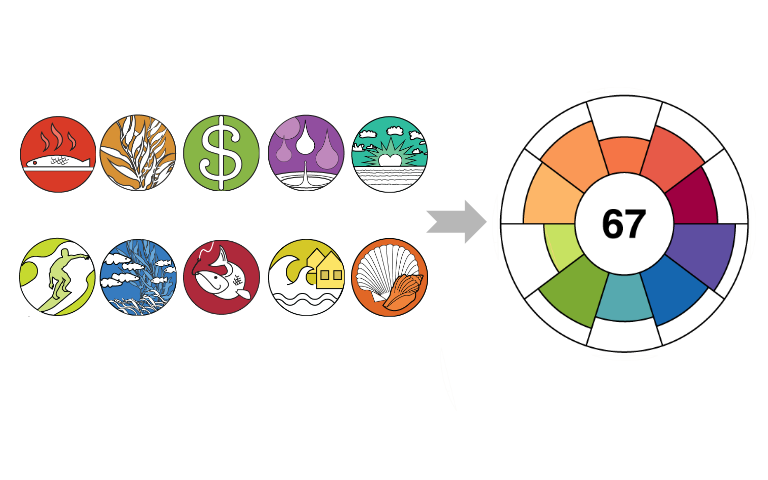
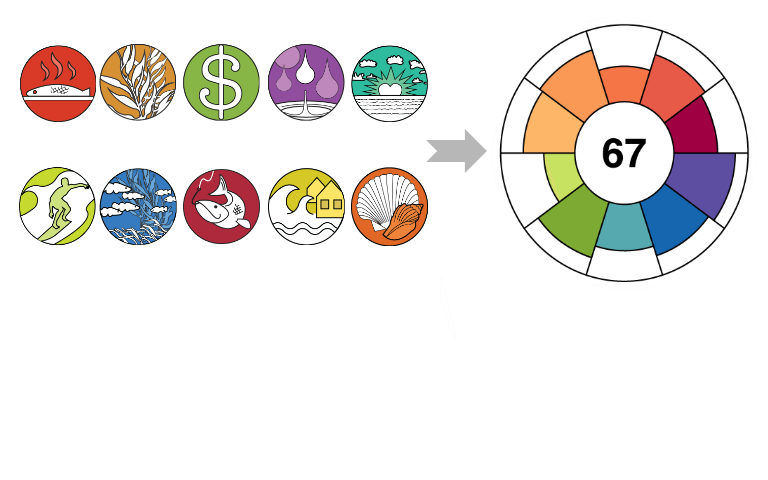
updated intro slides and presenter notes

diff --git a/tutorials/ohi_shiny/index.html b/tutorials/ohi_shiny/index.html
@@ -96,21 +96,38 @@
 <slide class=''><hgroup><h2>Ocean Health Index</h2></hgroup><article  id="ocean-health-index">
 
 <div class="centered">
-<img src='img/ohi-goals-flowerplot.png' title=''/></div>
+<img src='img/ohi-goals.png' title=''/></div>
 
 <aside class='note'><section><blockquote>
-<p>TODO: animate this first slide to show a non-shiny global map here setup: prelaunch in new tab: <a href='http://ohi-science.nceas.ucsb.edu/bhi' title=''>http://ohi-science.nceas.ucsb.edu/bhi</a>; add: <code>?presentme=true</code> to URL, click <code>p</code> for notes</p>
+<p>setup: prelaunch in new tab: <a href='http://ohi-science.nceas.ucsb.edu/bhi' title=''>http://ohi-science.nceas.ucsb.edu/bhi</a>; add: <code>?presentme=true</code> to URL, click <code>p</code> for notes</p>
 </blockquote>
 
 <ul>
 <li>The Ocean Health Index measures ocean health based on the best publicly available data and scientific methods at <strong>local, regional, national and global</strong> scales.</li>
-<li>Governments at many levels are mandating policy to increase ocean health, but there wasn&#39;t a way to do this.</li>
+<li>Governments at many levels are <strong>mandating policy</strong> to increase ocean health, but there wasn&#39;t a way to do this.</li>
 <li>The OHI defines &#39;ocean health&#39; around benefits provided to people, so it can be more directly useful for policy.</li>
-<li>It uses data from multiple ocean-related activities and services including fishing, tourism, and clean waters to name a few, and these are all scored on the same scale and compared together in this flower plot.</li>
-<li><p>This was developed as an academic exercise - UCSB/NCEAS and Conservation International, assessed at the global scale: all coastal nations and territories.</p></li>
-<li>It provides a high level view for policy makers, while enabling deep inspection by analysts. This reductionist approach appeals to a very wide audience.</li>
-<li>And Shiny has proven an excellent tool to enable this interactive view of the data.</li>
-<li>The UN is in the process of adopting OHI principles, and many countries around the world are using the data and tools we provide to customize one of their own.</li>
+<li>It uses <strong>data from multiple ocean-related activities</strong> and services and <strong>scores them in categories</strong> like fishing, tourism, and clean waters</li>
+</ul></section></aside>
+
+</article></slide><slide class=''><hgroup><h2>Ocean Health Index</h2></hgroup><article  id="ocean-health-index-1">
+
+<div class="centered">
+<img src='img/ohi-goals-flowerplot.png' title=''/></div>
+
+<aside class='note'><section><ul>
+<li>These <strong>categories, called goals, are scored from 0-100</strong> and represented as <strong>petals</strong> on this flower plot.</li>
+<li>A single score is also calculated, <strong>distilling</strong> all information and goals into a single value.</li>
+<li>This <strong>reductionist approach</strong> appeals to a very wide audience, and depending on your interest, you can dive deeper and deeper into an activity and the data behind it etc.</li>
+</ul></section></aside>
+
+</article></slide><slide class=''><hgroup><h2>Ocean Health Index</h2></hgroup><article  id="ocean-health-index-2">
+
+<div class="centered">
+<img src='img/ohi-goals-flowerplot-map.png' title=''/></div>
+
+<aside class='note'><section><ul>
+<li>Scores are also displayed on <strong>maps</strong>, and we do <strong>annual assessments at the global scale</strong>, calculating scores for each coastal nation and territory.</li>
+<li>There has been a lot of <strong>uptake</strong>: The <strong>UN</strong> is in the process of adopting OHI principles, and many countries around the world are using our methods to inform their national or local ocean policy.</li>
 </ul></section></aside>
 
 </article></slide><slide class=''><hgroup><h2>OHI Assessments</h2></hgroup><article  id="ohi-assessments">
@@ -119,11 +136,10 @@
 <img src='img/ohi-science.org_projects.png' height=500/></div>
 
 <aside class='note'><section><ul>
-<li>now being adopted by governments around the world to inform how they measure and manage for the health of their oceans.</li>
-<li>in Colombia, Ecuador, Baltic (name drop a few cool ones)</li>
-<li>We&#39;ve developed a lot of tools enable groups to do this on their own. We make github repos of the scripts and inputs we&#39;ve used that they can modify with their data and interact with our R package.</li>
-<li>We developed a shiny app to enable users to do their own assessment and effectively inspect their work as it&#39;s developed and communicate their results to policy makers.</li>
-<li>Really get people excited about how Shiny is directly helping people improve the health of our oceans&#8230;something along those lines!*</li>
+<li>This map shows countries using our OHI methods</li>
+<li>We&#39;ve developed a <strong>workflow and provide tools and support</strong> to enable groups to do this. We make github repos of R scripts and template inputs they can modify with their data.</li>
+<li>The maps and flower plots have a lot of information, and <strong>Shiny has proven an excellent tool to enable this interactive view</strong>, allowing both a high level view for policy makers, and deep inspection by analysts.</li>
+<li>We&#39;re really excited to be using Shiny and other open-source tools to help improve the health of our oceans&#8211;Ben will describe the app now in more detail.</li>
 </ul></section></aside>
 
 </article></slide><slide class=''><hgroup><h2>OHI+ Baltic</h2></hgroup><article  id="ohi-baltic">
